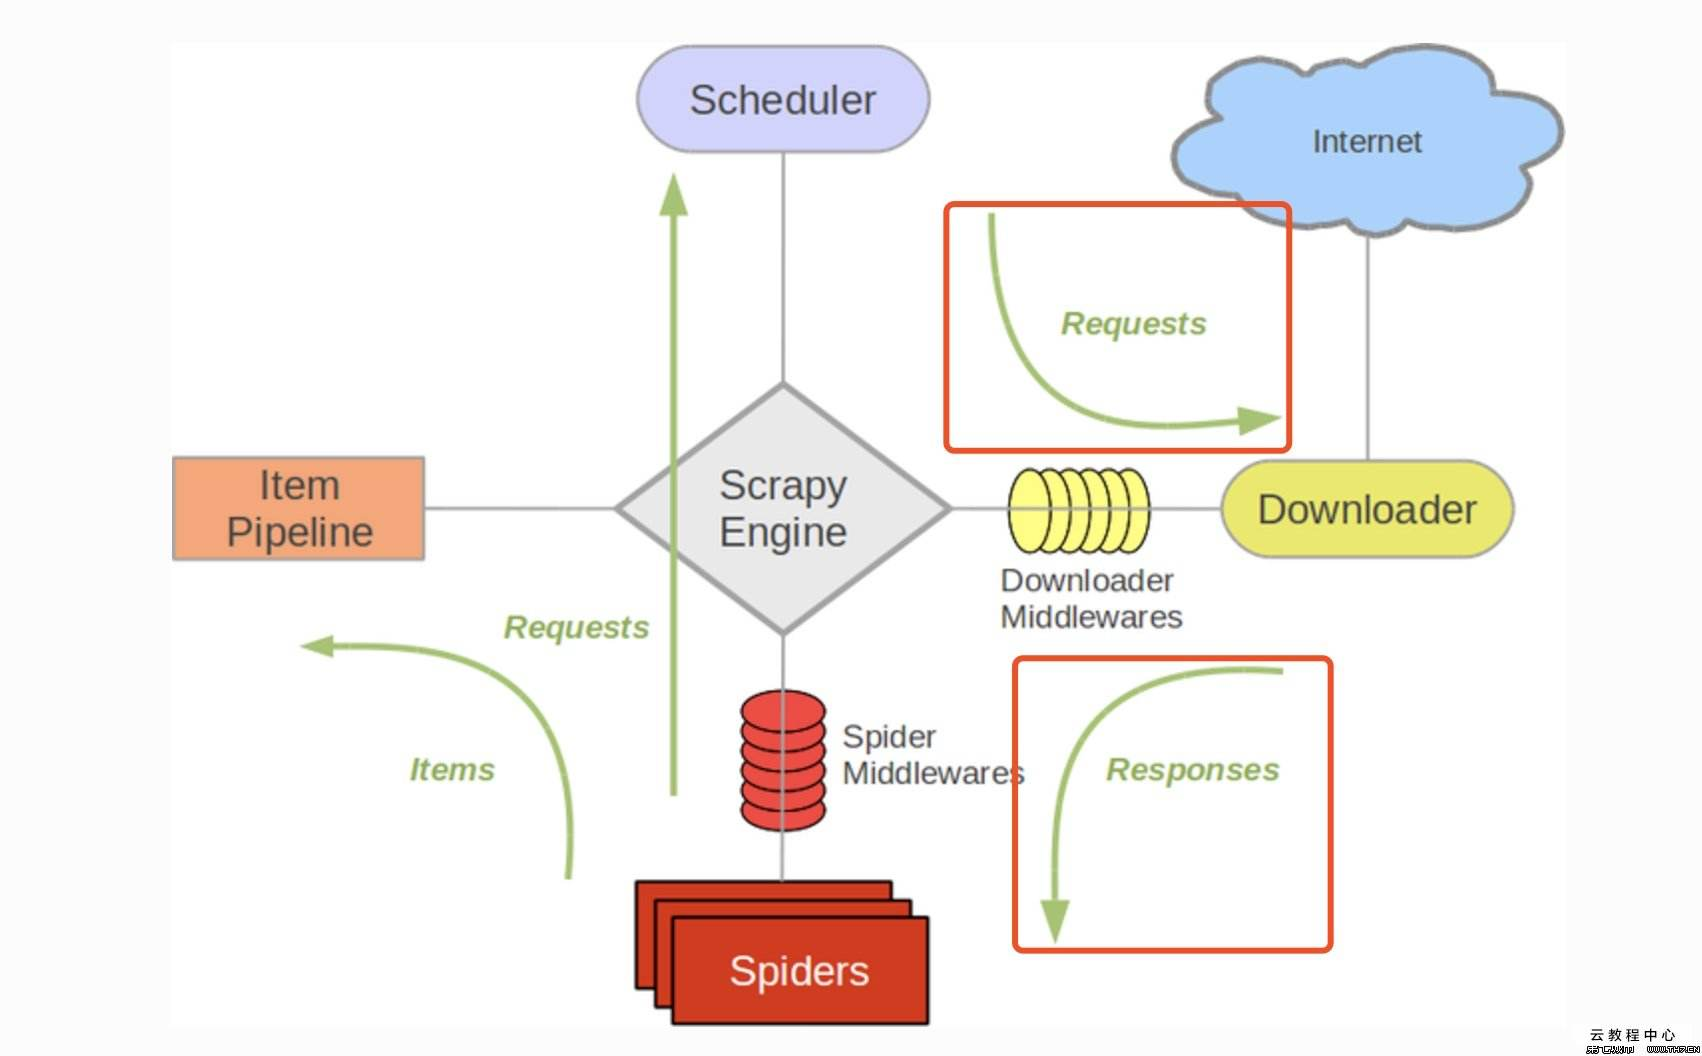
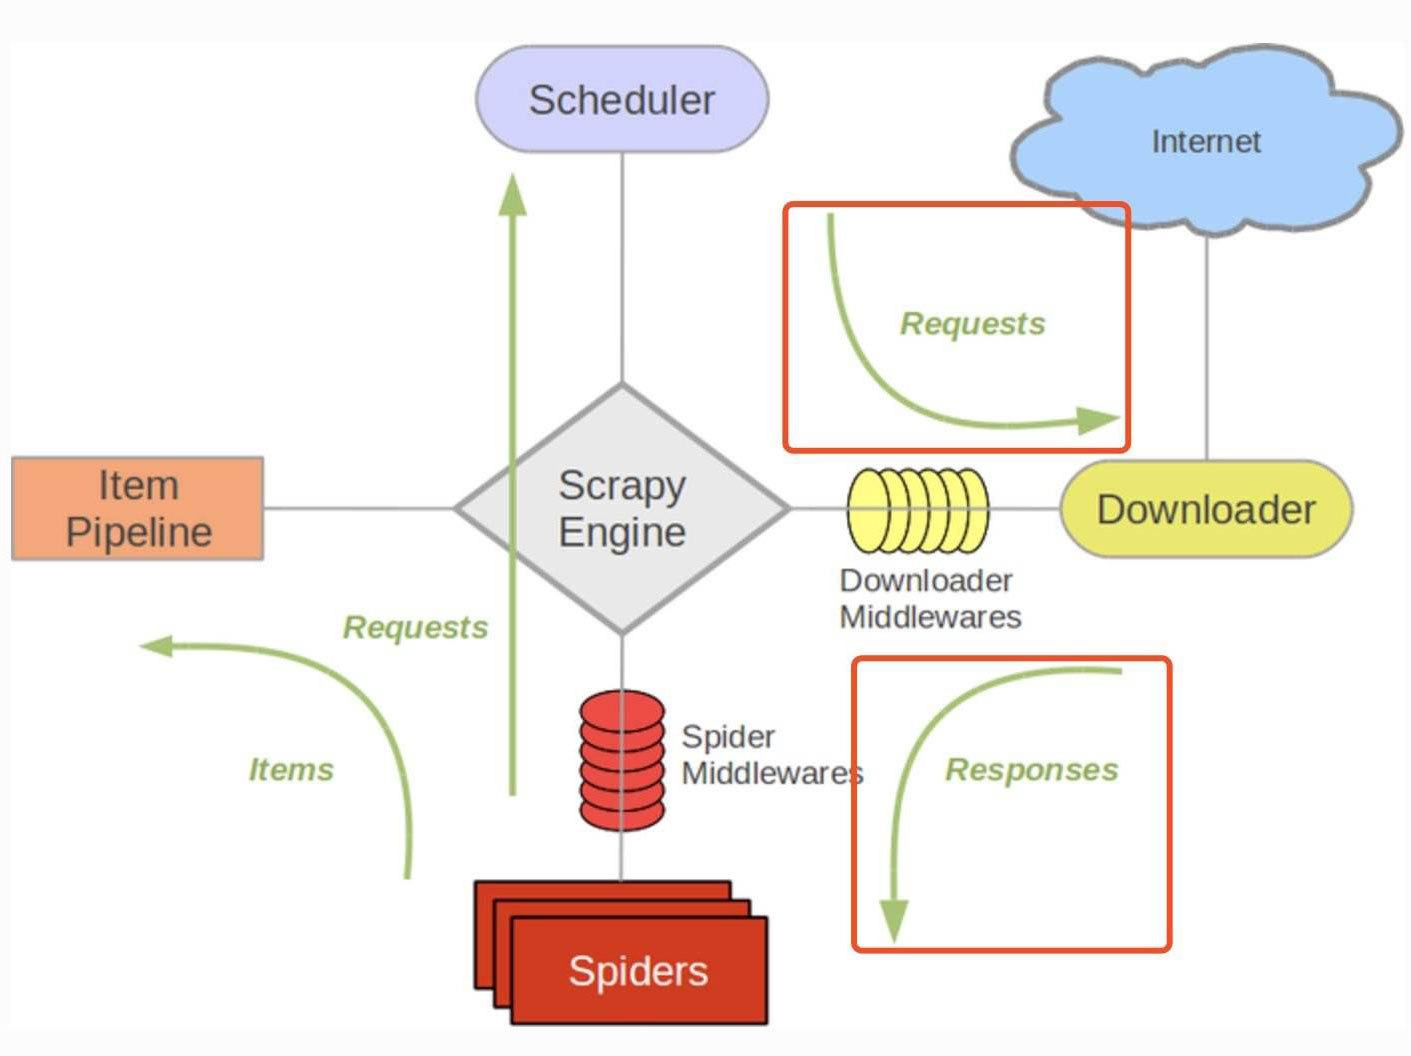
update: 59.md screenshot

diff --git a/python/contents/59.md b/python/contents/59.md
@@ -8,7 +8,7 @@
 
 1）架构图：
 
-<img width='400' src="./screenshot/scrapy.jpg">
+<img width='600' src="./screenshot/scrapy.jpg">
 
 2）运行原理：
 
